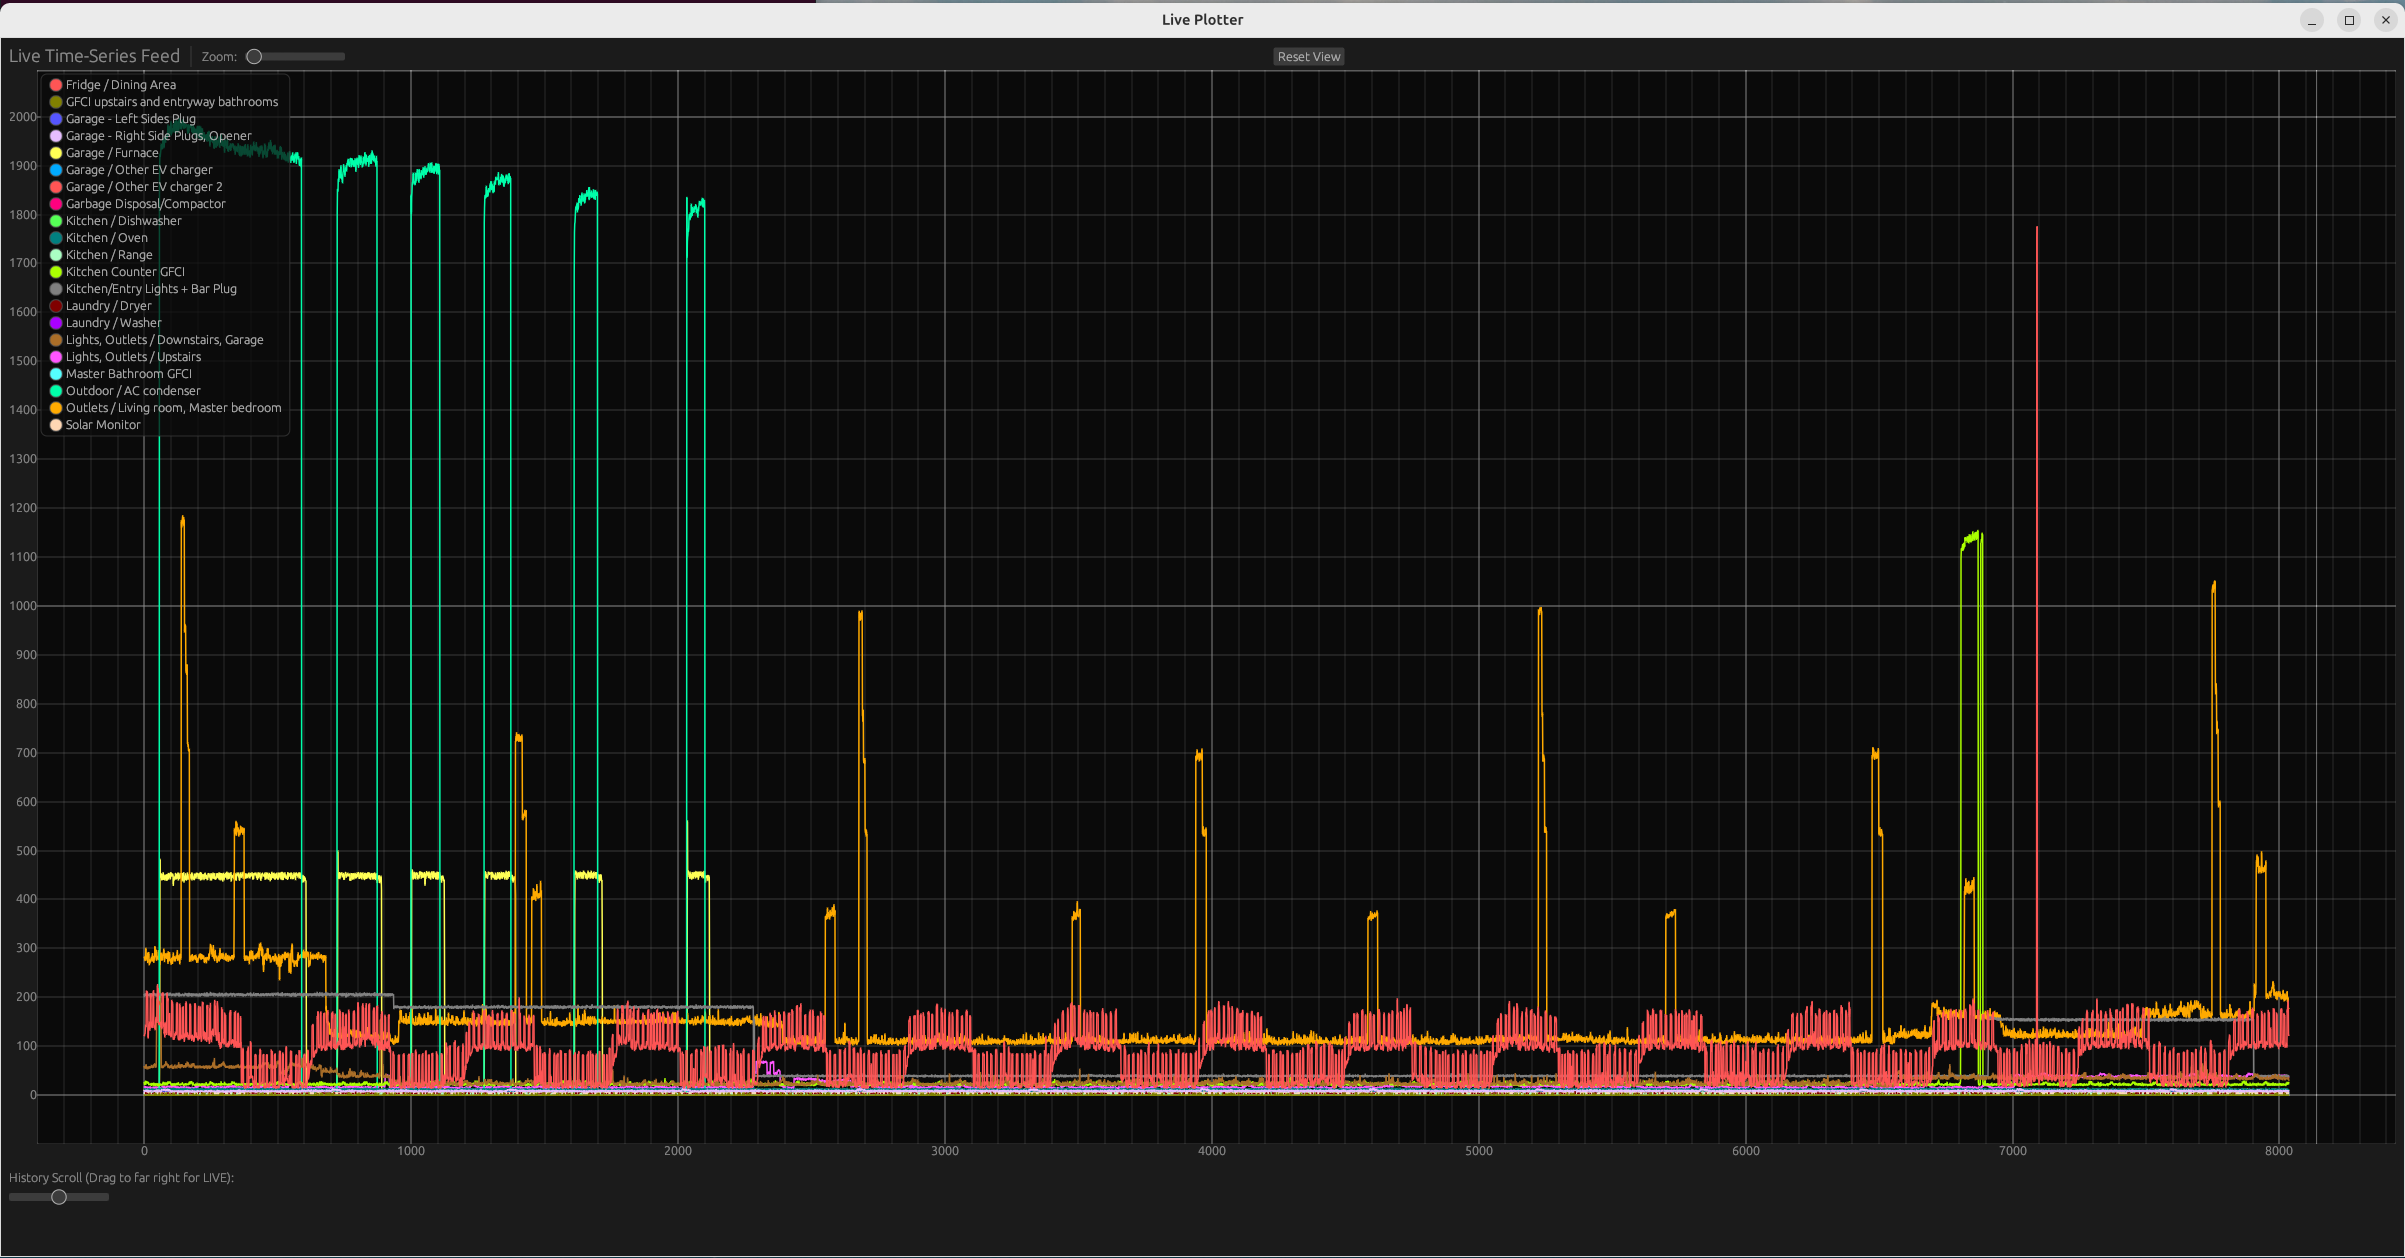
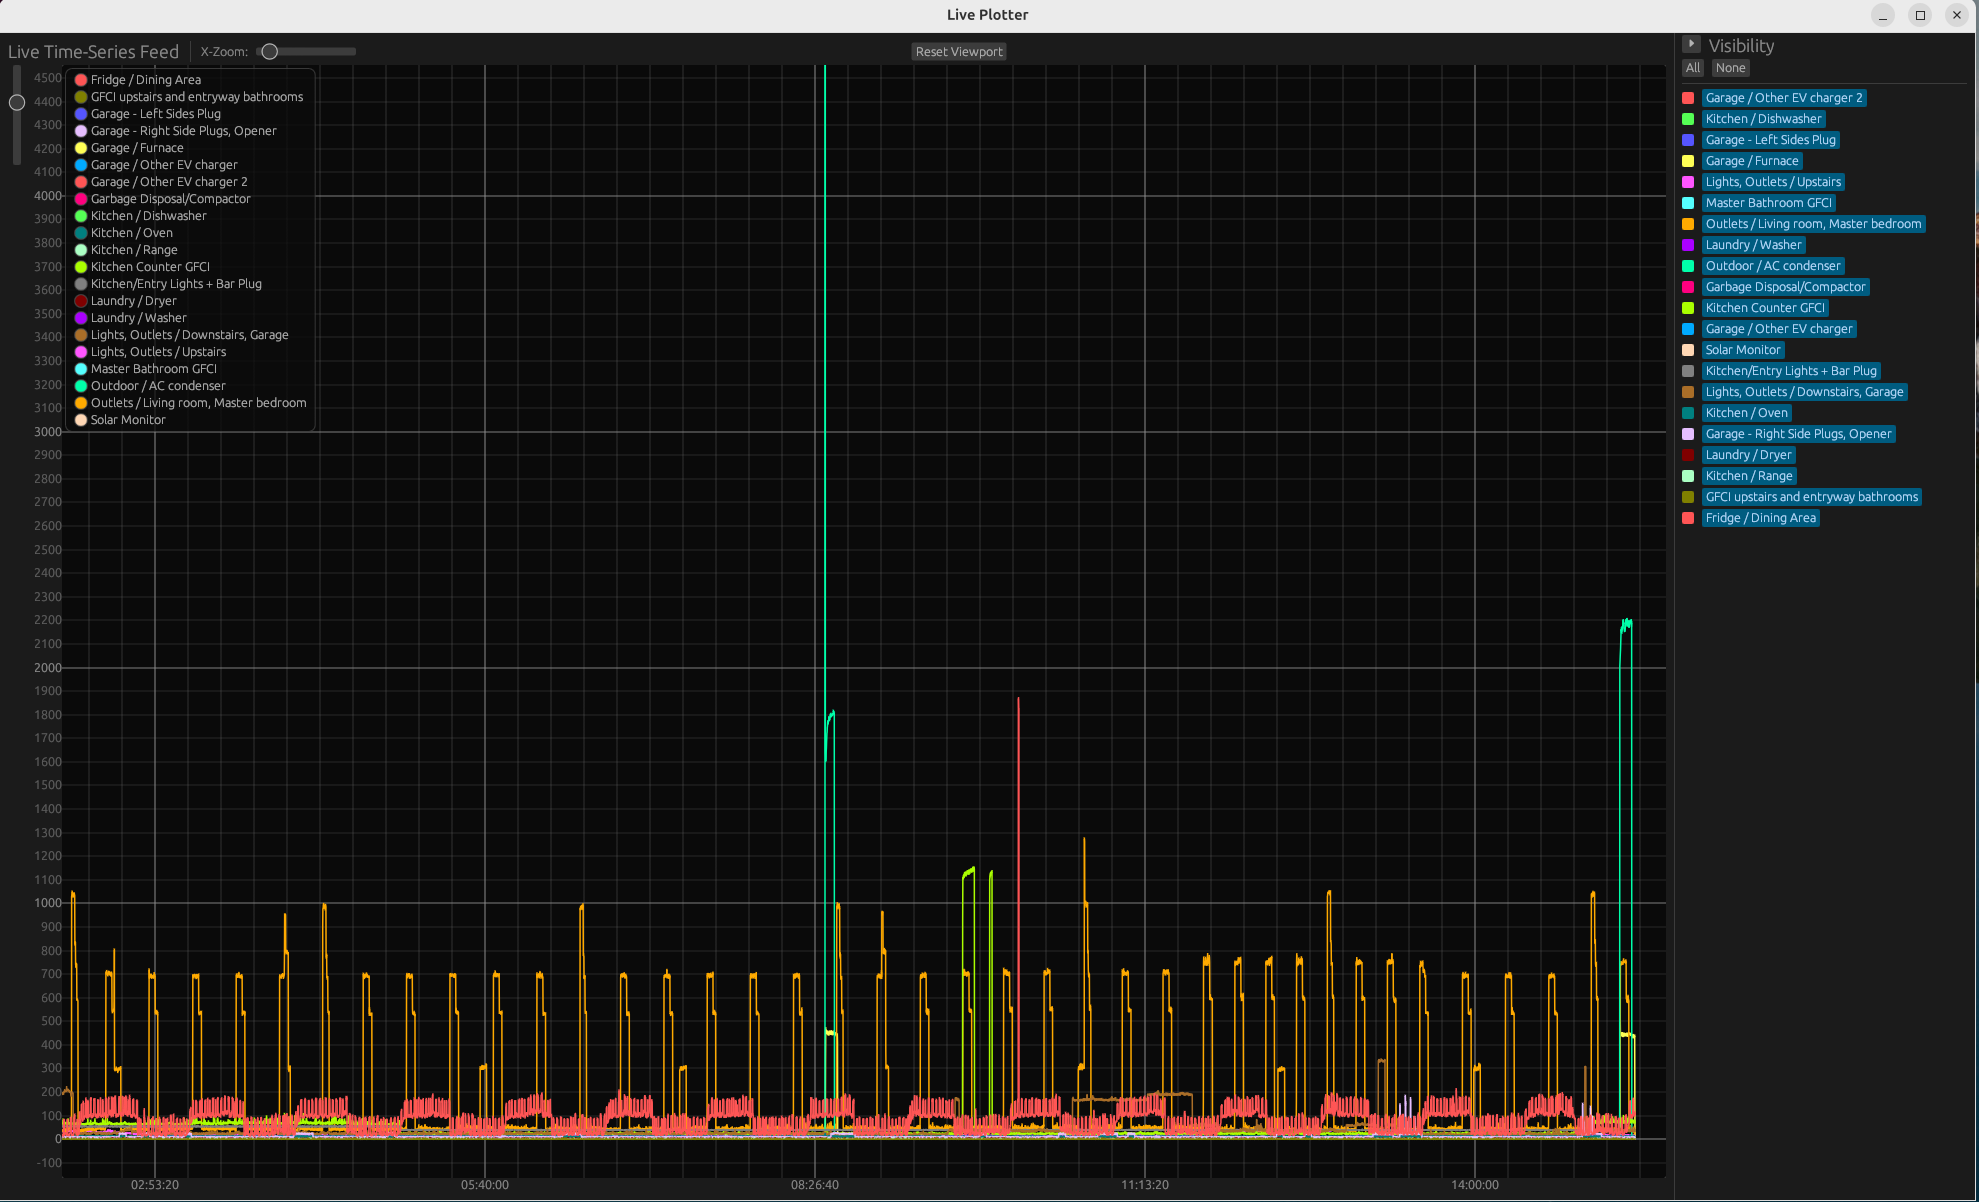
updated README w/ new screenshot

diff --git a/README.md b/README.md
@@ -1,29 +1,36 @@
 # Live Plotter
 
-This is an implementation of a "live data plotter."
-Think of the strip charts that are generated by a seismometer.  Or those generated by the lie detectors that you see in the movies.
+This is an implementation of a "live data plotter."  Think of the
+strip charts that are generated by a seismometer.  Or those generated
+by the lie detectors that you see in the movies.
 
 This is like those.
 
-An external program generates the time-series data values to be
-plotted with `live_plotter`.  The measurement values are real numbers,
-and all the values must be present, separated by a space, on a single
-line for each time step.  Labels should be specified for each of the
-time-series data, and the number of labels must match the number of
-numbers per line of input.
+An external program generates/provides the time-series data values to
+be plotted with `live_plotter`.  The measurement values are real
+numbers, and all the values must be present, separated by a space, on
+a single line for each time step.  Labels should be specified for each
+of the time-series data, and the number of labels must match the
+number of numbers per line of input.  If the `--timestamp` command
+line argument is specified, then the number of numbers should be one
+greater, with the first number representing the timestamp value in
+seconds since the Unix epoch.
 
-Unlike real strip charts, the display area is finite, and the
-`--viewport-width` command line argument specifies how many
-most-recent time values to show in the default view.  The
-`--max-points` parameter specifies how many data points to retain per
-time-series data stream, and you can click-drag to scroll the viewport
-to see older data.  The GUI also allows zooming into a smaller region,
-so it would be feasible to specify a huge number of sample times and
-just zoom into the most recent.  After zooming, double clicking resets
-the view to show everything.  A `reset view` button resets the display
-to the default viewport-width wide view.  Hovering over a data point
-shows the data values and the name of the time-series to which it
-belongs.
+Unlike real strip charts with paper tape made for Turing machines, the
+display area is finite, and the `--viewport-width` command line
+argument specifies how many most-recent time values to show in the
+default view.  The `--max-points` parameter specifies how many data
+points to retain per time-series data stream, and you can click-drag
+to scroll the viewport to see older data.  The GUI also allows zooming
+into a smaller region, so it would be feasible to specify a huge
+number of sample times and just zoom into the most recent.  After
+zooming, double clicking resets the view to show everything.  A `reset
+view` button resets the display to the default viewport-width wide
+view.  Hovering over a data point shows the data values and the name
+of the time-series to which it belongs.  A visibility panel is
+available on the right so that you can turn individual time-series
+lines off (invisible) and on to get rid of or at least attempt to
+control the clutter.
 
 <img src="screenshot.png">
 
@@ -35,10 +42,20 @@ cutting-and-pasting the AI Studio generated code into the repository
 is occasionally remembering to run `rustfmt`; the Studio generated
 code sometimes has extraneous trailing spaces and the like.
 
+There appears to be an issue with one or more of `eframe`, `egui`, and
+`egui_plot` where even though no data is updating and you are not
+clicking and dragging the chart, by just moving the mouse over the
+chart area, you can get the program to spin and chew up most of a CPU
+core.  As of this writing, AI Studio doesn't seem to understand how to
+use a more recent version of these graphical UI packages than 0.29
+(the API isn't stable), and I haven't tried to figure out of the
+latest 0.34 version of these packages still have this performance
+issue.
+
 ## Usage
 
 ```
-$ get_circuit_info  -a --abs -k instantPowerW --live 5 | eval live_plotter --labels $(get_circuit_info -a -k name -q)
+$ span_circuit_info  -a --abs -k instantPowerW --live 5 --timestamp | eval live_plotter --timestamp --labels $(span_circuit_info -a -k name -q)
 ```
 
-See https://github.com/bennetyee/SPAN-hacks for `get_circuit_info`.
+See https://github.com/bennetyee/span_circuit_info for `span_circuit_info`.